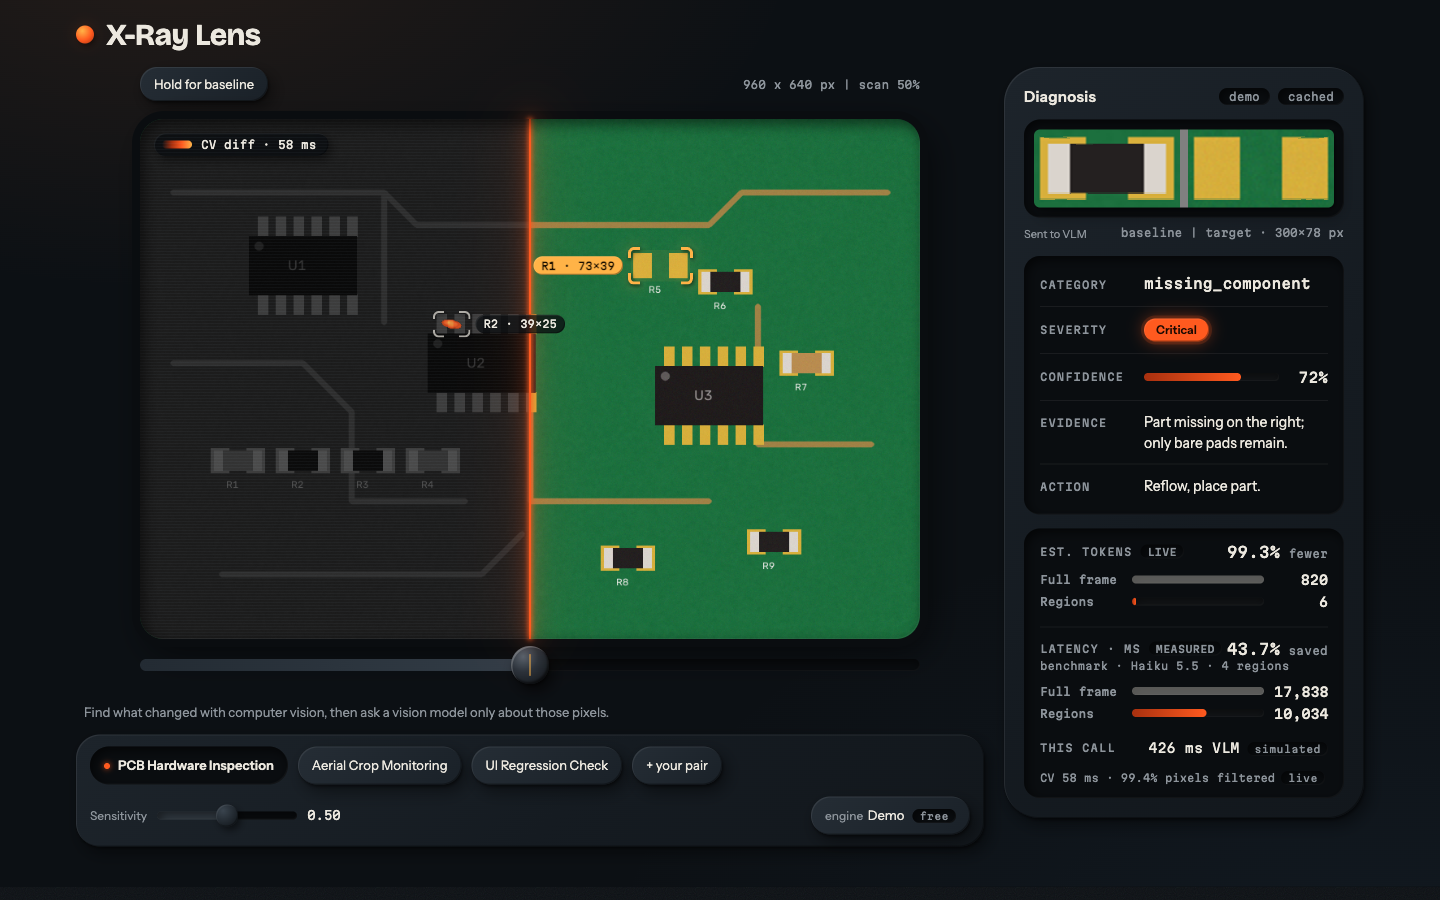
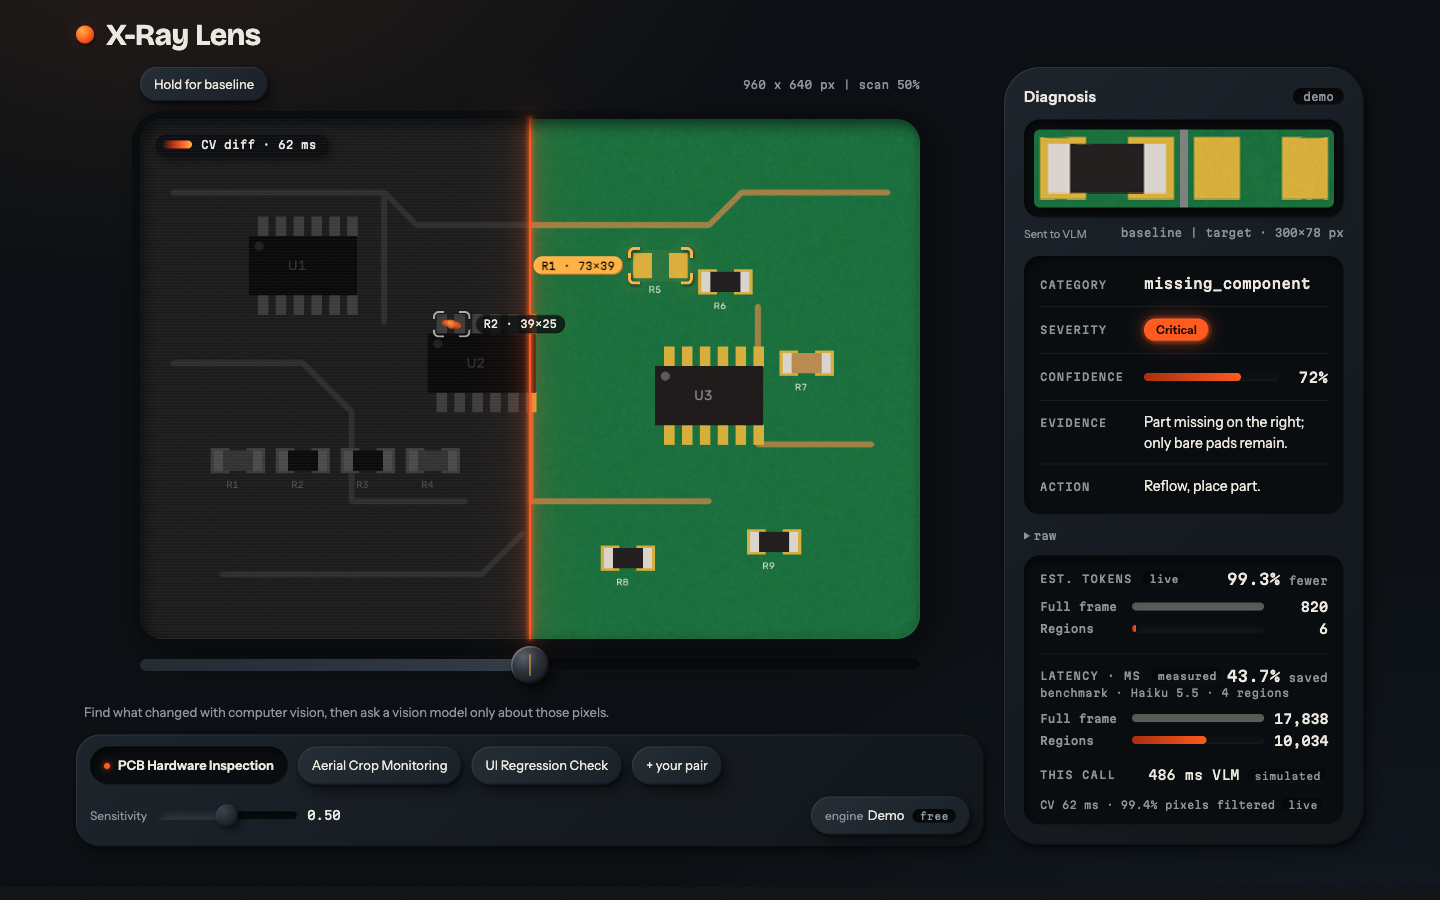
docs: recapture bars-contact and stills with synced counter and lowercase tags

Changed region(s): [[0.7188, 0.5911, 0.9375, 0.9022], [0.8438, 0.0933, 0.9062, 0.1244]]

diff --git a/docs/workflow.html b/docs/workflow.html
@@ -124,7 +124,7 @@
     <tr><td>#17</td><td>feat/lens-instrument</td><td class="done">merged</td><td>2 review rounds: grayscale scan base, neutral rail, hint out of image, fold fix. 77 tests, 1,014 lines.</td></tr>
     <tr><td>PR 3</td><td>feat/region-lockon</td><td>in review</td><td>Regions lock on: brackets, stagger, typed labels, pinned state. 99 tests, 1,142 frontend lines.</td></tr>
     <tr><td>PR 4</td><td>feat/readout-stream</td><td>in review</td><td>Readout rows stream via partialReport, uniform specimen flight (skipped off screen), demo-only pacing, single-accent severity. 132 tests, 1,297 frontend lines.</td></tr>
-    <tr><td>PR 5</td><td>feat/savings-bench</td><td>in review</td><td>Savings instrument: est. token bars (live), benchmark latency bars (measured), this call tagged live/simulated, bars hold during the region flight. 159 tests, 1,466 frontend lines.</td></tr>
+    <tr><td>PR 5</td><td>feat/savings-bench</td><td>in review</td><td>Savings instrument: est. token bars (live), benchmark latency bars (measured), this call tagged live/simulated, bars hold during the region flight. 164 tests, 1,466 frontend lines.</td></tr>
   </table>
 </main>
 </body>
